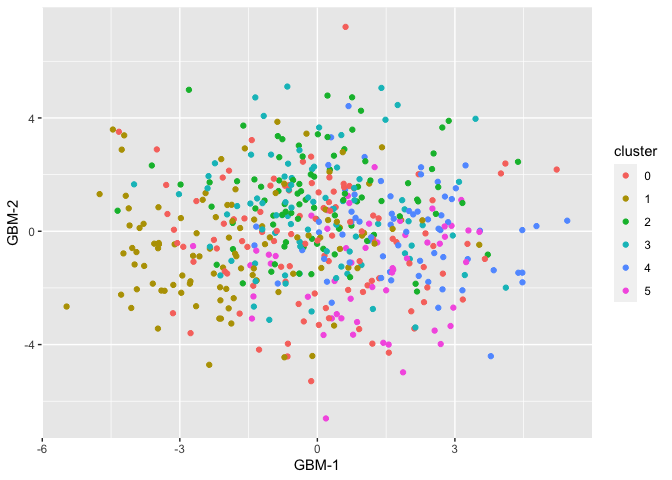
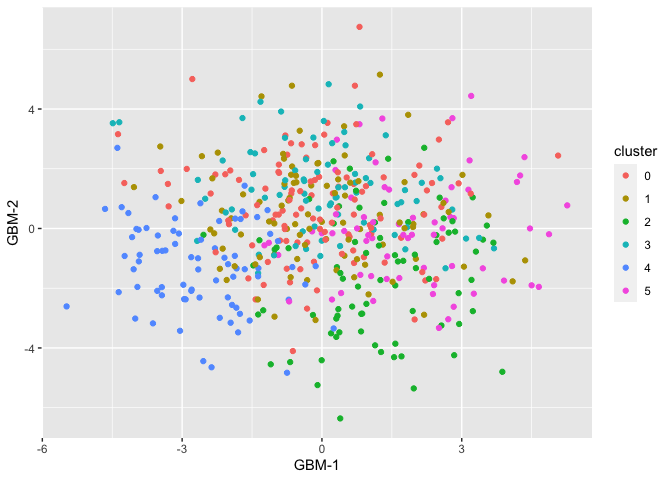
Preparing for Version update

diff --git a/README.md b/README.md
@@ -48,7 +48,18 @@ out <- gbm.sc(Y,M=10)
     ## Iteration:  14 . Objective= -240268.6 
     ## Iteration:  15 . Objective= -240268 
     ## Iteration:  16 . Objective= -240267.4 
-    ## Iteration:  17 . Objective= -240267
+    ## Iteration:  17 . Objective= -240267 
+    ## Iteration:  18 . Objective= -240266.9 
+    ## Iteration:  20 . Objective= -240266.9 
+    ## Iteration:  21 . Objective= -240266.8 
+    ## Iteration:  22 . Objective= -240266.7 
+    ## Iteration:  23 . Objective= -240266.5 
+    ## Iteration:  24 . Objective= -240266.4 
+    ## Iteration:  25 . Objective= -240266.4 
+    ## Iteration:  26 . Objective= -240266.3 
+    ## Iteration:  27 . Objective= -240266.2 
+    ## Iteration:  28 . Objective= -240266 
+    ## Iteration:  29 . Objective= -240265.9
 
     ## For users of newer versions (1.0.1+): the `scores` matrix now contains factor scores, the `V` matrix is UNSCALED scores.
 
@@ -88,19 +99,19 @@ head(out$se_scores)
 ```
 
     ##              1         2         3         4         5         6         7
-    ## [1,] 0.9848234 0.9689303 0.9880989 0.9986832 1.0013979 0.9967517 1.0013323
-    ## [2,] 0.9852984 0.9585690 0.9950856 1.0178229 0.9912398 0.9935041 0.9989354
-    ## [3,] 0.9707660 0.9574002 0.9675917 0.9309583 0.9522230 0.9566709 0.9655341
-    ## [4,] 0.9670084 0.9667028 0.9483449 0.9458617 0.9434126 0.9551795 0.9546598
-    ## [5,] 1.0068426 1.0176532 0.9865573 0.9884981 1.0084605 0.9853104 0.9968485
-    ## [6,] 1.0560701 1.0437247 1.0455669 1.0654722 1.0435426 1.0575476 1.0455543
+    ## [1,] 0.9827696 0.9604884 0.9833750 0.9986217 0.9961750 0.9939438 1.0024827
+    ## [2,] 0.9868728 0.9573743 0.9942293 1.0230468 1.0038184 0.9887006 0.9953444
+    ## [3,] 0.9692269 0.9614666 0.9672354 0.9273413 0.9547951 0.9570453 0.9664860
+    ## [4,] 0.9676738 0.9670946 0.9542210 0.9424605 0.9483404 0.9524144 0.9460106
+    ## [5,] 1.0063214 1.0163037 0.9823466 0.9929520 0.9971580 1.0056245 1.0034012
+    ## [6,] 1.0528522 1.0371955 1.0451813 1.0685987 1.0542485 1.0463961 1.0422791
     ##              8         9        10
-    ## [1,] 1.0005233 0.9963515 0.9813010
-    ## [2,] 0.9927224 1.0027732 0.9775374
-    ## [3,] 0.9640886 0.9741119 0.9676006
-    ## [4,] 0.9548456 0.9476875 0.9471757
-    ## [5,] 0.9990949 1.0173108 0.9915947
-    ## [6,] 1.0514588 1.0454769 1.0315178
+    ## [1,] 0.9955121 1.0007955 0.9854292
+    ## [2,] 0.9969187 0.9981072 0.9745440
+    ## [3,] 0.9675816 0.9671162 0.9636636
+    ## [4,] 0.9595275 0.9457462 0.9502666
+    ## [5,] 1.0019558 1.0120540 0.9979084
+    ## [6,] 1.0487410 1.0483612 1.0355369
 
 You can visualize the uncertainty with ellipses around the points
 
@@ -110,7 +121,7 @@ plot_gbm(out, cluster=Sco$seurat_clusters, se=TRUE)
 
 ![](README_files/figure-gfm/unnamed-chunk-8-1.png)<!-- -->
 
-Now we evaluate cluster stability using the cluster confidence index.
+Now we evaluate cluster stability using the cluster cohesion index.
 First we need to define a function that takes as input a set of
 simulated scores $\tilde{V}$ and returns a new clustering:
 
@@ -150,7 +161,15 @@ cci$cci_diagonal
 
 The heatmap shows there is significant overlap between the clusters.
 This makes sense because the data was simulated to have no latent
-variability.
+variability. The CCI function also returns a `coarse_cluster` which
+combines clusters that have high inter-CCI. Here it correctly identifies
+that there is only one “true” cluster.
+
+``` r
+plot_gbm(out,cluster=as.character(cci$coarse_cluster))
+```
+
+![](README_files/figure-gfm/unnamed-chunk-13-1.png)<!-- -->
 
 ## Reference
 

diff --git a/NEWS.md b/NEWS.md
@@ -1,11 +1,14 @@
 ## Version TBD Date TBD 
 
 TODO: SUMMARY OF CHANGES
+**New functionality:**
+
+   * `loadings.volcano()` makes a volcano plot to show the genes that are driving a particular latent factor. 
+   * Several changes to the `CCI` function, including a function that automatically combines clusters with low inter-CCI and, if `null.dist = TRUE`, a cutoff line corresponding to the CCI that would be expected under the null of no latent variability. 
+
 **Changes to existing functionality:**
 
    * `get.se()` now has the option to add a small diagonal matrix with entries `EPS` in cases where the matrix inversion fails. 
-
-   * `gbm.sc()` OPTIONS FOR TYPE OF SVD 
 
 **Bug fixes:**
 
